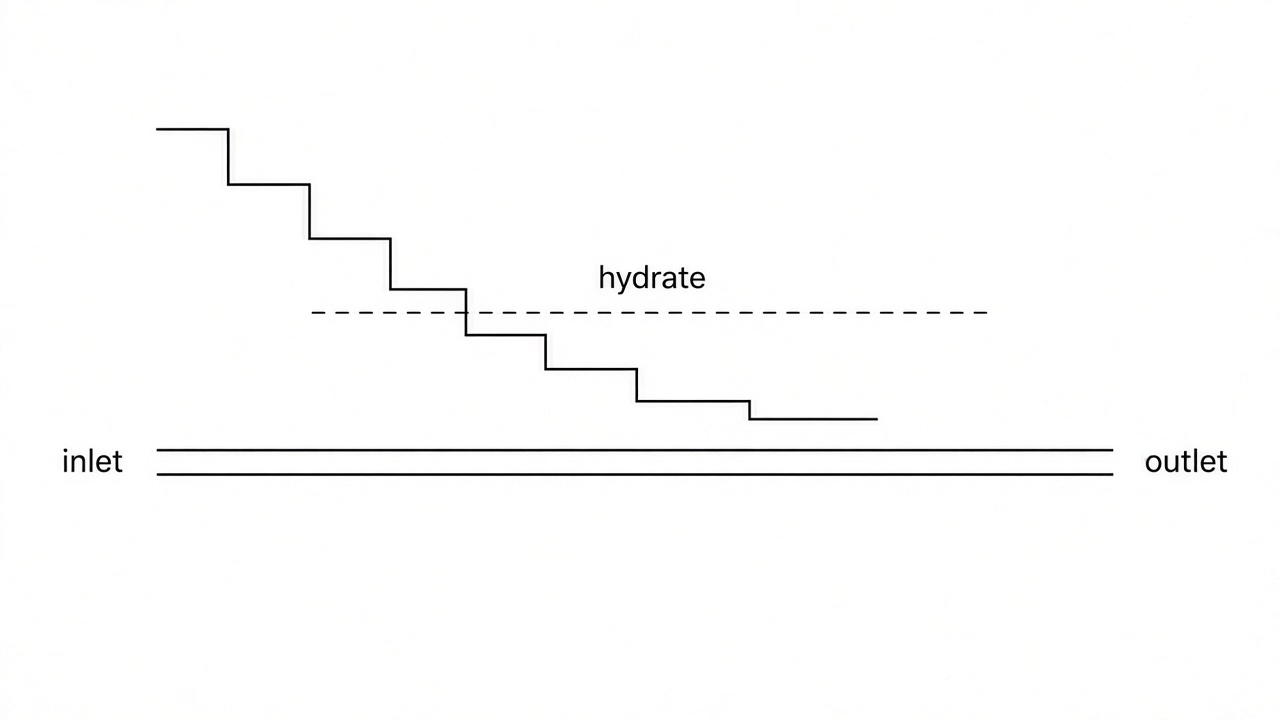
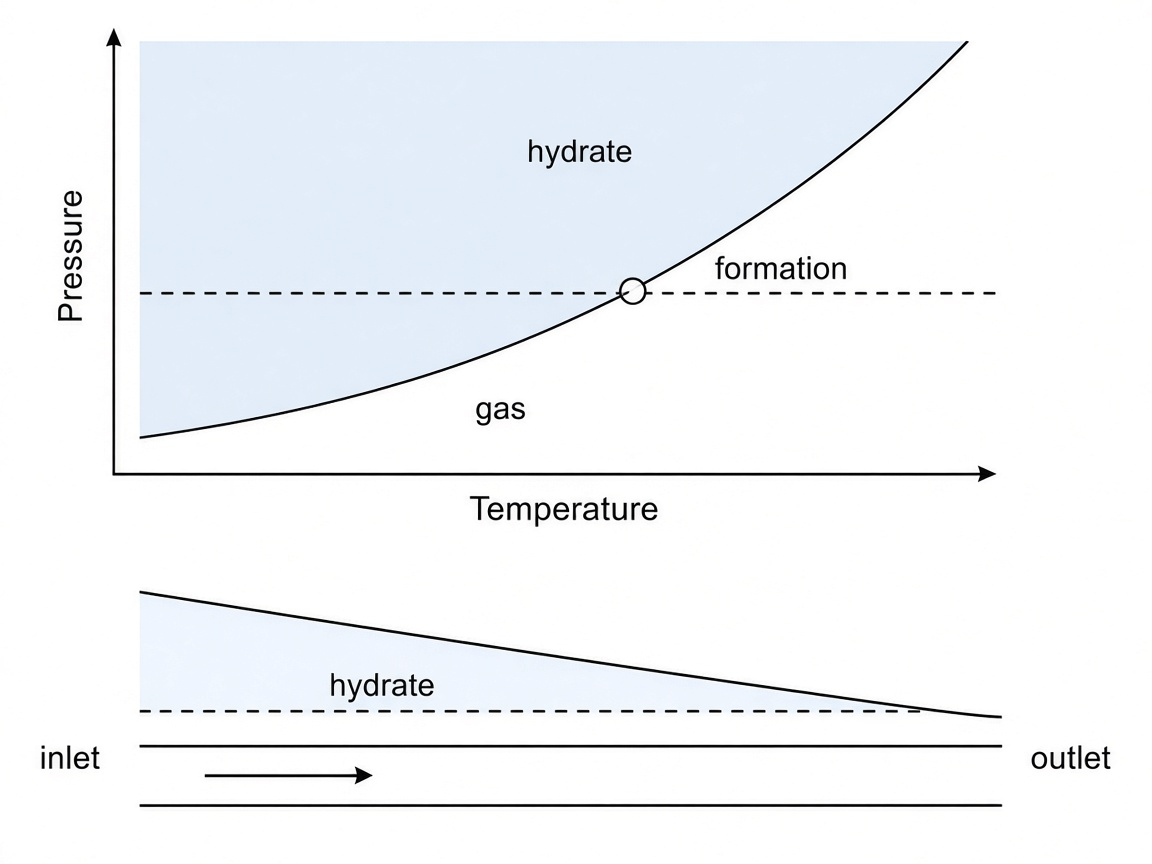
Replace the two schematics with fuller figures.

diff --git a/index.html b/index.html
@@ -327,11 +327,11 @@
           </div>
         </li>
         <li>
-          <img src="assets/fig-carbon.svg" width="640" height="360" alt="Schematic of a five-spot pattern: carbon dioxide injected at the center well, oil produced at the four corners.">
+          <img src="assets/fig-carbon.png" width="1152" height="864" alt="Schematic with a plan view and a cross section. Carbon dioxide is injected at the center, a plume spreads through the rock, and oil is produced at the four corners.">
           <div>
             <p class="item-meta"><span>2025</span><span>ChemEngineering</span></p>
             <h3><a href="https://doi.org/10.3390/chemengineering10010001">Oil recovery and carbon storage</a></h3>
-            <p>Schematic of the field decision. Carbon dioxide goes in at the center well, and oil is produced at the corners. The journal file was not available to crop.</p>
+            <p>Schematic of the field pattern. Carbon dioxide is injected at the center, the plume spreads through the rock, and oil is produced at the corners. The journal file was not available to crop.</p>
           </div>
         </li>
         <li>
@@ -351,11 +351,11 @@
           </div>
         </li>
         <li>
-          <img src="assets/fig-hydrate.png" width="1280" height="720" alt="Schematic of a pipeline. Temperature falls from the inlet toward the outlet and crosses a hydrate line.">
+          <img src="assets/fig-hydrate.png" width="1152" height="864" alt="Schematic. Hydrate is stable above a rising equilibrium curve of pressure against temperature. A constant-pressure cooling path crosses into that region, and the pipeline temperature falls from inlet to outlet.">
           <div>
             <p class="item-meta"><span>2023</span><span>Petroleum and Coal</span></p>
             <h3>Hydrate formation temperature</h3>
-            <p>Schematic of the pipeline problem. Temperature falls from the inlet, and hydrate can form once it crosses the line. No open PDF was available to crop.</p>
+            <p>Schematic. Hydrate is the high-pressure side of the equilibrium curve, and cooling along the pipeline crosses into it. No open PDF was available to crop.</p>
           </div>
         </li>
         <li>

diff --git a/css/site.css b/css/site.css
@@ -506,7 +506,7 @@ h1 {
 .paper-gallery img {
   display: block;
   width: 100%;
-  height: 11.5rem;
+  height: 13.5rem;
   object-fit: contain;
   object-position: center;
   background: #fff;
